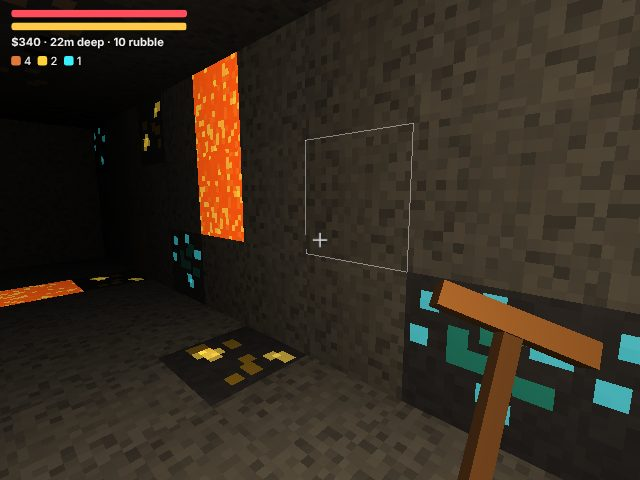
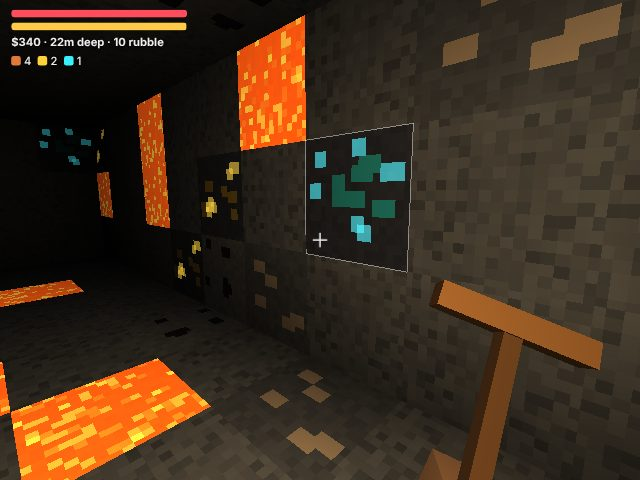
Deep Dig: blockier look (#6)
* Add Shotgun Chess: chess variant with 2 shotgun shells per side

Claude-Session: https://claude.ai/code/session_01UAVtk8ujcgp4siYeyvw87E

* Shotgun Chess: threefold detection with ammo, shot cache, pellet spray effect

Claude-Session: https://claude.ai/code/session_01UAVtk8ujcgp4siYeyvw87E

* Bust GitHub Pages cache for games.js/app.js so new games show without hard refresh

Claude-Session: https://claude.ai/code/session_01UAVtk8ujcgp4siYeyvw87E

* Add King's Last Stand: first-person chess shooter

Claude-Session: https://claude.ai/code/session_01UAVtk8ujcgp4siYeyvw87E

* Add Ping Pong: table tennis vs computer

Claude-Session: https://claude.ai/code/session_01UAVtk8ujcgp4siYeyvw87E

* Add Deep Dig: 3D voxel mining game

Claude-Session: https://claude.ai/code/session_01UAVtk8ujcgp4siYeyvw87E

* Deep Dig: grass side/top tiles, trees, clouds, ambient occlusion, blocky arm

Claude-Session: https://claude.ai/code/session_01UAVtk8ujcgp4siYeyvw87E

---------

diff --git a/games/deep-dig/index.html b/games/deep-dig/index.html
@@ -49,8 +49,10 @@ const B = [null,
   ["Iron", "#6f727a", 2, 12, 1, "#f0d2b0"], ["Gold", "#4a4c5a", 2.4, 30, 2, "#ffd23a"],
   ["Gem", "#4a4c5a", 3, 80, 3, "#3af0ff"], ["Lava", "#ff5a10", Infinity, 0, 9, "#ffd040"],
   ["Bedrock", "#1c1c22", Infinity, 0, 9, "#33333d"], ["Heart Crystal", "#b03aff", 4, 0, 4, "#ffc0ff"],
-  ["Rubble", "#7d7f85", .6, 0, 0, "#5b5d63"]];
-const NB = B.length, LAVA = 10, CRYSTAL = 12, RUBBLE = 13, ORES = [5, 6, 7, 8, 9];
+  ["Rubble", "#7d7f85", .6, 0, 0, "#5b5d63"], ["Wood", "#6b4a2b", .8, 0, 0, "#523720"], ["Leaves", "#3f8f2f", .2, 0, 0, "#2c6a20"]];
+const NB = B.length, LAVA = 10, CRYSTAL = 12, RUBBLE = 13, LOG = 14, LEAF = 15, ORES = [5, 6, 7, 8, 9];
+const GRASS_TOP = NB, GRASS_SIDE = NB + 1, LOG_TOP = NB + 2, NT = NB + 3; // extra atlas tiles for per-face looks
+const tile = (id, f) => id === 1 ? (f === 3 ? GRASS_TOP : f === 2 ? 2 : GRASS_SIDE) : id === LOG && f >= 2 && f <= 3 ? LOG_TOP : id;
 const PICK = [{ name: "Wooden pick", speed: 1, col: 0x9a6a3a }, { name: "Copper pick", speed: 1.6, col: 0xe07a3a, cost: 40 }, { name: "Iron pick", speed: 2.3, col: 0xdcdce4, cost: 120 },
   { name: "Gold pick", speed: 3.2, col: 0xffd23a, cost: 300 }, { name: "Gem pick", speed: 4.5, col: 0x3af0ff, cost: 700 }];
 const LAMP = [{ fuel: 60 }, { fuel: 90, cost: 50 }, { fuel: 130, cost: 150 }, { fuel: 180, cost: 400 }];
@@ -80,11 +82,24 @@ function generate() {
   vein(5, 45, 30, SURF - 4, [3, 4]); vein(6, 40, 20, SURF - 8, [3, 3]); vein(7, 35, 8, 38, [3, 3]);
   vein(8, 24, 3, 22, [2, 3]); vein(9, 14, 2, 12, [1, 3]); vein(LAVA, 18, 2, 20, [3, 5]);
   for (const [x, y, z] of [[11, 1, 11], [12, 1, 11], [11, 1, 12], [12, 1, 12], [11, 2, 11], [12, 2, 11], [11, 2, 12], [12, 2, 12]]) W[I(x, y, z)] = CRYSTAL;
+  for (let n = 0; n < 9; n++) { // trees: trunk + leafy blob, away from spawn
+    const x = 2 + Math.random() * (X - 4) | 0, z = 2 + Math.random() * (Z - 4) | 0;
+    if (Math.hypot(x - 12, z - 12) < 5) continue;
+    let y = Y - 1; while (y > 0 && !W[I(x, y, z)]) y--;
+    if (W[I(x, y, z)] !== 1) continue;
+    const top = y + 4 + (Math.random() * 2 | 0);
+    for (let dx = -2; dx <= 2; dx++) for (let dz = -2; dz <= 2; dz++) for (let dy = -2; dy <= 1; dy++) {
+      const lx = x + dx, ly = top + dy, lz = z + dz;
+      if (inside(lx, ly, lz) && !W[I(lx, ly, lz)] && Math.abs(dx) + Math.abs(dz) + Math.max(0, dy) * 2 < 4 - (dy === 1) && Math.random() > .08) W[I(lx, ly, lz)] = LEAF;
+    }
+    for (let k = y + 1; k <= top; k++) W[I(x, k, z)] = LOG;
+  }
 }
 
+const hashPx = x => (x * 2654435761 >>> 0) % 7;
 // ---------- textures: tiny procedural pixel tiles + a glow atlas so lava/gems shine in the dark ----------
 function atlas(glow) {
-  const c = document.createElement("canvas"); c.width = NB * 16; c.height = 16; const g = c.getContext("2d");
+  const c = document.createElement("canvas"); c.width = NT * 16; c.height = 16; const g = c.getContext("2d");
   let seed = 7; const rnd = () => (seed = seed * 16807 % 2147483647) / 2147483647;
   g.fillStyle = "#000"; g.fillRect(0, 0, c.width, c.height);
   for (let id = 1; id < NB; id++) {
@@ -97,6 +112,18 @@ function atlas(glow) {
       const x = 1 + rnd() * 12 | 0, y = 1 + rnd() * 12 | 0; g.fillStyle = speck; g.globalAlpha = glow ? .6 : 1; g.fillRect(id * 16 + x, y, 2 + (rnd() < .5), 2);
     }
   }
+  if (!glow) { // grass top, grass side (dirt with green fringe), log rings
+    const px = (t, x, y, col) => { g.fillStyle = col; g.globalAlpha = .82 + rnd() * .18; g.fillRect(t * 16 + x, y, 1, 1); };
+    for (let i = 0; i < 256; i++) {
+      const x = i % 16, y = i >> 4, k = rnd();
+      px(GRASS_TOP, x, y, k < .3 ? "#4f9a32" : k < .4 ? "#74c048" : "#5fae3e");
+      px(GRASS_SIDE, x, y, y < 3 + (hashPx(x) % 3) ? (k < .3 ? "#4f9a32" : "#5fae3e") : k < .18 ? "#5e3d24" : "#7a5232");
+      const ring = Math.max(Math.abs(x - 7.5), Math.abs(y - 7.5)) | 0;
+      px(LOG_TOP, x, y, ring > 6 ? "#523720" : ring % 2 ? "#a7834f" : "#bf9a5f");
+    }
+    for (let i = 0; i < 256; i++) { const x = i % 16, y = i >> 4; if (x % 4 === 1 || rnd() < .12) { g.globalAlpha = .7; g.fillStyle = "#4a3220"; g.fillRect(LOG * 16 + x, y, 1, 1); } }
+  }
+  g.globalAlpha = 1;
   const t = new THREE.CanvasTexture(c); t.magFilter = THREE.NearestFilter; t.minFilter = THREE.NearestFilter; return t;
 }
 
@@ -121,14 +148,23 @@ const FACES = [ // normal, shade, 4 corners [x,y,z,u,v]
 const chunks = [], hash = (x, y, z) => ((x * 73856093 ^ y * 19349663 ^ z * 83492791) >>> 0) % 100 / 100;
 function build(cy) {
   const P = [], N = [], U = [], C = [], ix = [];
+  const occ = (x, y, z) => inside(x, y, z) && W[I(x, y, z)] ? 1 : 0, AO = [.45, .65, .82, 1];
   for (let y = cy * CH; y < cy * CH + CH; y++) for (let z = 0; z < Z; z++) for (let x = 0; x < X; x++) {
     const id = W[I(x, y, z)]; if (!id) continue;
-    const h = .88 + hash(x, y, z) * .12;
-    for (const [d, s, cs] of FACES) {
+    const h = .9 + hash(x, y, z) * .1;
+    for (const [fi, [d, s, cs]] of FACES.entries()) {
       const nx = x + d[0], ny = y + d[1], nz = z + d[2];
       if (inside(nx, ny, nz) && W[I(nx, ny, nz)]) continue; // world edges stay drawn so the map isn't see-through
       const n = P.length / 3;
-      for (const [a, b, c, u, v] of cs) { P.push(x + a, y + b, z + c); N.push(...d); U.push((id + .02 + u * .96) / NB, .02 + v * .96); C.push(s * h, s * h, s * h); }
+      const t = tile(id, fi), bx = x + d[0], by = y + d[1], bz = z + d[2];
+      for (const [a, b, c, u, v] of cs) {
+        // ambient occlusion: the two edge neighbours + corner neighbour in front of this vertex darken it
+        const o = [a ? 1 : -1, b ? 1 : -1, c ? 1 : -1].map((v, k) => d[k] ? 0 : v), ax = [0, 1, 2].filter(k => !d[k]);
+        const e1 = [0, 0, 0], e2 = [0, 0, 0]; e1[ax[0]] = o[ax[0]]; e2[ax[1]] = o[ax[1]];
+        const s1 = occ(bx + e1[0], by + e1[1], bz + e1[2]), s2 = occ(bx + e2[0], by + e2[1], bz + e2[2]), cr = occ(bx + o[0], by + o[1], bz + o[2]);
+        const l = s * h * AO[s1 && s2 ? 0 : 3 - s1 - s2 - cr];
+        P.push(x + a, y + b, z + c); N.push(...d); U.push((t + .02 + u * .96) / NT, .02 + v * .96); C.push(l, l, l);
+      }
       ix.push(n, n + 1, n + 2, n + 2, n + 1, n + 3);
     }
   }
@@ -152,7 +188,14 @@ scene.add(sel, crack);
 const hand = new THREE.Group(), headMat = new THREE.MeshLambertMaterial({ color: PICK[0].col });
 hand.add(new THREE.Mesh(new THREE.BoxGeometry(.05, .5, .05), new THREE.MeshLambertMaterial({ color: 0x6b4a2b })));
 const head = new THREE.Mesh(new THREE.BoxGeometry(.42, .07, .07), headMat); head.position.y = .23; hand.add(head);
+const arm = new THREE.Mesh(new THREE.BoxGeometry(.13, .13, .5), new THREE.MeshLambertMaterial({ color: 0xd09a70 })); arm.position.set(0, -.3, .1); arm.rotation.x = .35; hand.add(arm);
 hand.position.set(.3, -.3, -.55); hand.rotation.set(-.3, 0, -.4); hand.scale.setScalar(.7); camera.add(hand);
+const clouds = new THREE.Group(), cloudMat = new THREE.MeshBasicMaterial({ color: 0xffffff, transparent: true, opacity: .85, fog: false });
+for (let i = 0; i < 26; i++) { // blocky clouds: clusters of flat boxes
+  const cx = (Math.random() - .5) * 160, cz = (Math.random() - .5) * 160;
+  for (let k = 0; k < 3; k++) { const c = new THREE.Mesh(new THREE.BoxGeometry(6 + Math.random() * 10 | 0, 1.5, 4 + Math.random() * 8 | 0), cloudMat); c.position.set(cx + (Math.random() - .5) * 8, 0, cz + (Math.random() - .5) * 6); clouds.add(c); }
+}
+clouds.position.y = Y + 10; scene.add(clouds);
 const parts = [], pg = new THREE.BoxGeometry(.12, .12, .12);
 function burst(x, y, z, id) {
   const m = new THREE.MeshBasicMaterial({ color: B[id][3] ? B[id][5] : B[id][1] });
@@ -257,9 +300,10 @@ function update(dt) {
 function view(dt) {
   camera.position.set(P.x, P.y + 1.55, P.z); camera.rotation.set(P.pitch, P.yaw, 0);
   const deep = Math.max(0, Math.min(1, (SURF - 1 - P.y) / 8));
-  hemi.intensity = 1 - .97 * deep; sun.intensity = .6 * (1 - deep);
+  hemi.intensity = .78 - .75 * deep; sun.intensity = .5 * (1 - deep);
   lamp.distance = fuel > 0 ? 6 + lampLvl * 2.5 + 5 * fuel / LAMP[lampLvl].fuel : 2.5;
-  const sky = new THREE.Color(0x8fc8ff).lerp(new THREE.Color(0x000000), deep);
+  clouds.position.x = (clouds.position.x + dt * .6 + 80) % 160 - 80; cloudMat.opacity = .85 * (1 - deep);
+  const sky = new THREE.Color(0x7fb2ff).lerp(new THREE.Color(0x000000), deep);
   scene.background = sky; scene.fog.color = sky; scene.fog.far = 60 - deep * (60 - lamp.distance - 4);
   hand.rotation.x = -.3 - Math.abs(Math.sin(swing)) * .7 * (mouse[0] ? 1 : 0);
   for (const p of parts) { p.v.y -= 20 * dt; p.position.addScaledVector(p.v, dt); p.life -= dt; if (p.life < 0) scene.remove(p); }
